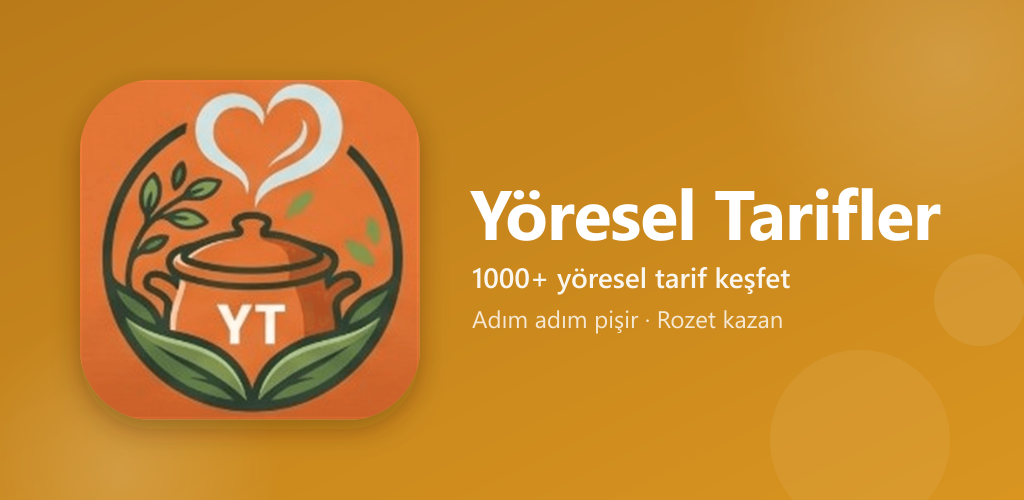
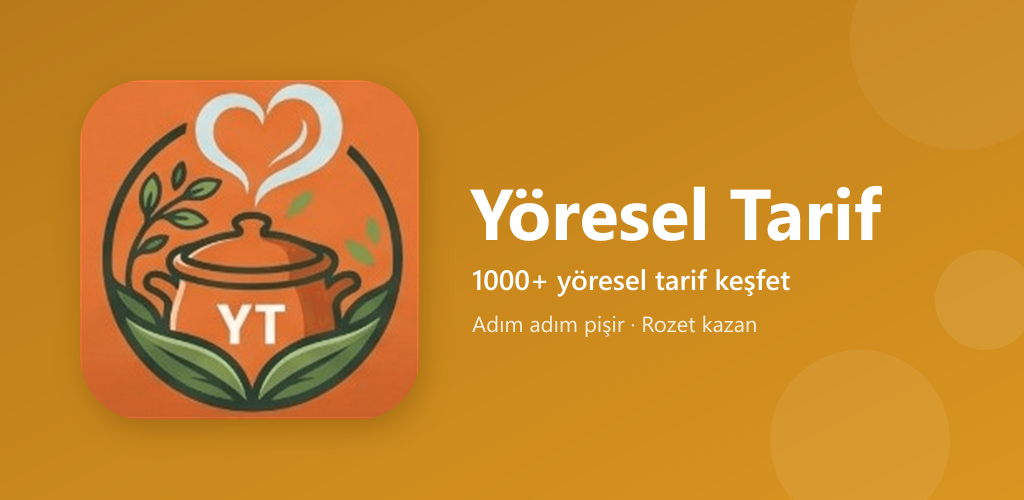
fix: Google/Apple ile girenler hesap silebilsin, pasaportta ulke bayraklari
- Hesap silmede sifre yerine giris yontemine gore yeniden dogrulama
  (Google / Apple), Apple token iptali (App Store 5.1.1(v))
- Pasaport damgalarinda kita simgesi yerine ulke bayragi
- Gunun Menusu metinlerinde Turkce karakterler
- Play magaza gorselleri (ad duzeltilmis feature graphic, 512 ikon,
  ekran goruntuleri)

diff --git a/src/screens/ProfileScreen.js b/src/screens/ProfileScreen.js
@@ -12,6 +12,7 @@ import {
 import { Image } from 'expo-image';
 import { Globe, Palette, Settings, LogOut, User as UserIcon, ChevronRight, Trash2, Shield, Camera, Crown } from 'lucide-react-native';
 import { useApp } from '../contexts/AppContext';
+import { getCountryFlag } from '../constants/countryFlags';
 import { useAuth } from '../contexts/AuthContext';
 import { useSubscription } from '../contexts/SubscriptionContext';
 import { getRank, getNextRank, RANKS } from '../constants/ranks';
@@ -52,7 +53,7 @@ const CONTINENT_EMOJIS = {
 
 function PassportStamp({ country, continent }) {
   const color = CONTINENT_COLORS[continent] || CONTINENT_COLORS.unknown;
-  const emoji = CONTINENT_EMOJIS[continent] || '🌐';
+  const emoji = getCountryFlag(country) || CONTINENT_EMOJIS[continent] || '🌐';
   return (
     <View style={[stampStyles.stamp, { borderColor: color }]}>
       <View style={[stampStyles.innerRing, { borderColor: color + '60' }]}>
@@ -100,7 +101,7 @@ const stampStyles = StyleSheet.create({
 
 export default function ProfileScreen({ navigation }) {
   const { colors, translate, theme, setTheme, showNotification, completedRecipesCount, completedCountries, language } = useApp();
-  const { user, isAdmin, isGuest, logout, deleteAccount } = useAuth();
+  const { user, isAdmin, isGuest, logout, deleteAccount, getDeleteAuthMethod } = useAuth();
   const { isPremium } = useSubscription();
   const [showThemeModal, setShowThemeModal] = useState(false);
   const [showDeleteModal, setShowDeleteModal] = useState(false);
@@ -123,15 +124,20 @@ export default function ProfileScreen({ navigation }) {
     }
   };
 
+  // Google/Apple ile giriş yapanların şifresi yok -- onlar şifre yerine
+  // aynı sağlayıcıyla yeniden giriş yaparak onaylar.
+  const deleteAuthMethod = showDeleteModal ? getDeleteAuthMethod() : 'password';
+  const needsPassword = deleteAuthMethod === 'password';
+
   const handleDeleteAccount = async () => {
-    if (!deletePassword) return;
+    if (needsPassword && !deletePassword) return;
     setDeleteLoading(true);
     const result = await deleteAccount(deletePassword);
     setDeleteLoading(false);
     if (result.success) {
       showNotification(translate('deleteAccountSuccess'));
       setShowDeleteModal(false);
-    } else {
+    } else if (result.error) {
       showNotification(translate(result.error));
     }
   };
@@ -580,16 +586,22 @@ export default function ProfileScreen({ navigation }) {
             <Text style={[styles.deleteWarningText, { color: colors.textSecondary }]}>
               {translate('deleteAccountWarning')}
             </Text>
-            <TextInput
-              style={[styles.deletePasswordInput, { backgroundColor: colors.background, color: colors.text, borderColor: colors.border }]}
-              placeholder={translate('enterPasswordToConfirm')}
-              placeholderTextColor={colors.textTertiary}
-              value={deletePassword}
-              onChangeText={setDeletePassword}
-              secureTextEntry
-              autoCorrect={false}
-              spellCheck={false}
-            />
+            {needsPassword ? (
+              <TextInput
+                style={[styles.deletePasswordInput, { backgroundColor: colors.background, color: colors.text, borderColor: colors.border }]}
+                placeholder={translate('enterPasswordToConfirm')}
+                placeholderTextColor={colors.textTertiary}
+                value={deletePassword}
+                onChangeText={setDeletePassword}
+                secureTextEntry
+                autoCorrect={false}
+                spellCheck={false}
+              />
+            ) : (
+              <Text style={[styles.deleteWarningText, { color: colors.textSecondary }]}>
+                {translate(deleteAuthMethod === 'google' ? 'deleteAccountReauthGoogle' : 'deleteAccountReauthApple')}
+              </Text>
+            )}
             <View style={styles.deleteModalButtons}>
               <TouchableOpacity
                 style={[styles.deleteModalBtn, { backgroundColor: colors.border }]}
@@ -603,9 +615,9 @@ export default function ProfileScreen({ navigation }) {
                 </Text>
               </TouchableOpacity>
               <TouchableOpacity
-                style={[styles.deleteModalBtn, { backgroundColor: colors.error }, (!deletePassword || deleteLoading) && { opacity: 0.5 }]}
+                style={[styles.deleteModalBtn, { backgroundColor: colors.error }, ((needsPassword && !deletePassword) || deleteLoading) && { opacity: 0.5 }]}
                 onPress={handleDeleteAccount}
-                disabled={!deletePassword || deleteLoading}
+                disabled={(needsPassword && !deletePassword) || deleteLoading}
                 accessibilityRole="button"
                 accessibilityLabel={translate('confirm')}
               >

diff --git a/src/contexts/AuthContext.js b/src/contexts/AuthContext.js
@@ -12,6 +12,7 @@ import {
   reauthenticateWithCredential,
   EmailAuthProvider,
   sendPasswordResetEmail,
+  revokeAccessToken,
 } from 'firebase/auth';
 import { doc, getDoc, setDoc, deleteDoc, collection, query, where, getDocs, writeBatch } from 'firebase/firestore';
 import { auth, db } from '../config/firebase';
@@ -204,14 +205,52 @@ export const AuthProvider = ({ children }) => {
     }
   };
 
+  // Hesap silmeden önce kimlik doğrulamanın hangi yolla yapılacağı: şifreli
+  // hesaplar şifre sorar, Google/Apple ile girenlerin şifresi olmadığı için
+  // aynı sağlayıcıyla yeniden giriş istenir.
+  const getDeleteAuthMethod = () => {
+    const providers = (auth.currentUser?.providerData || []).map(p => p.providerId);
+    if (providers.includes('password')) return 'password';
+    if (providers.includes('google.com')) return 'google';
+    if (providers.includes('apple.com')) return 'apple';
+    return 'password';
+  };
+
+  const reauthenticateForDelete = async (currentUser, password) => {
+    const method = getDeleteAuthMethod();
+    if (method === 'google') {
+      const idToken = await signInWithGoogle();
+      if (!idToken) return { cancelled: true };
+      await reauthenticateWithCredential(currentUser, GoogleAuthProvider.credential(idToken));
+      return {};
+    }
+    if (method === 'apple') {
+      // Apple ile giriş yalnızca iOS'ta var -- Android'deki Apple
+      // kullanıcısı e-postayla silme talebine yönlendirilir.
+      if (!(await isAppleSignInAvailable())) return { error: 'deleteAccountAppleUnavailable' };
+      const appleResult = await signInWithApple();
+      if (!appleResult) return { cancelled: true };
+      const credential = new OAuthProvider('apple.com').credential({
+        idToken: appleResult.identityToken,
+        rawNonce: appleResult.rawNonce,
+      });
+      await reauthenticateWithCredential(currentUser, credential);
+      return { appleAuthorizationCode: appleResult.authorizationCode };
+    }
+    const credential = EmailAuthProvider.credential(currentUser.email, password);
+    await reauthenticateWithCredential(currentUser, credential);
+    return {};
+  };
+
   const deleteAccount = async (password) => {
     try {
       const currentUser = auth.currentUser;
       if (!currentUser) return { success: false, error: 'No user' };
 
       // Firebase requires recent authentication before deletion
-      const credential = EmailAuthProvider.credential(currentUser.email, password);
-      await reauthenticateWithCredential(currentUser, credential);
+      const reauth = await reauthenticateForDelete(currentUser, password);
+      if (reauth.cancelled) return { success: false, error: null };
+      if (reauth.error) return { success: false, error: reauth.error };
 
       const uid = currentUser.uid;
       const avatarUrl = currentUser.photoURL;
@@ -241,6 +280,15 @@ export const AuthProvider = ({ children }) => {
       // kapsıyor (bkz. mağaza inceleme denetimi 2026-08-09).
       await Promise.all([avatarUrl, ...recipePhotoUrls].map(deleteImageByUrl));
 
+      // Apple ile giriş yapan hesaplarda uygulamanın Apple token'ı iptal
+      // edilmeli (App Store kuralı 5.1.1(v)). Başarısız olursa silmeyi
+      // engellememeli -- veriler zaten silindi.
+      if (reauth.appleAuthorizationCode) {
+        try {
+          await revokeAccessToken(auth, reauth.appleAuthorizationCode);
+        } catch {}
+      }
+
       // Delete Firebase Auth user last
       await deleteUser(currentUser);
 
@@ -248,6 +296,9 @@ export const AuthProvider = ({ children }) => {
     } catch (error) {
       if (error.code === 'auth/wrong-password' || error.code === 'auth/invalid-credential') {
         return { success: false, error: 'wrongPasswordDelete' };
+      }
+      if (error.code === 'auth/user-mismatch') {
+        return { success: false, error: 'deleteAccountWrongAccount' };
       }
       return { success: false, error: 'deleteAccountError' };
     }
@@ -284,6 +335,7 @@ export const AuthProvider = ({ children }) => {
     logout,
     resetPassword,
     deleteAccount,
+    getDeleteAuthMethod,
     continueAsGuest,
   };
 

diff --git a/src/constants/countryFlags.js b/src/constants/countryFlags.js
@@ -1,0 +1,132 @@
+// Tariflerdeki Türkçe ülke adı → ISO 3166-1 alpha-2 kodu. Pasaport
+// damgalarında kıta simgesi yerine ülkenin kendi bayrağını göstermek için
+// kullanılır (ör. Türkiye tarifleri "europe" kıtasında olduğu için eskiden
+// AB bayrağıyla görünüyordu).
+const COUNTRY_CODES = {
+  'ABD': 'US',
+  'Afganistan': 'AF',
+  'Almanya': 'DE',
+  'Angola': 'AO',
+  'Arjantin': 'AR',
+  'Avustralya': 'AU',
+  'Avusturya': 'AT',
+  'Azerbaycan': 'AZ',
+  'Bangladeş': 'BD',
+  'Belçika': 'BE',
+  'Bosna-Hersek': 'BA',
+  'Botsvana': 'BW',
+  'Brezilya': 'BR',
+  'Bulgaristan': 'BG',
+  'Butan': 'BT',
+  'Cezayir': 'DZ',
+  'Çek Cumhuriyeti': 'CZ',
+  'Çin': 'CN',
+  'Danimarka': 'DK',
+  'Ekvador': 'EC',
+  'El Salvador': 'SV',
+  'Endonezya': 'ID',
+  'Eritre': 'ER',
+  'Ermenistan': 'AM',
+  'Etiyopya': 'ET',
+  'Fas': 'MA',
+  'Fiji': 'FJ',
+  'Fildişi Sahili': 'CI',
+  'Filipinler': 'PH',
+  'Fransa': 'FR',
+  'Fransız Polinezyası': 'PF',
+  'Gana': 'GH',
+  'Guatemala': 'GT',
+  'Gürcistan': 'GE',
+  'Güney Afrika': 'ZA',
+  'Güney Kore': 'KR',
+  'Hindistan': 'IN',
+  'Hollanda': 'NL',
+  'Hawaii (ABD)': 'US',
+  'İngiltere': 'GB',
+  'İran': 'IR',
+  'İrlanda': 'IE',
+  'İskoçya': 'GB',
+  'İspanya': 'ES',
+  'İsrail': 'IL',
+  'İsveç': 'SE',
+  'İsviçre': 'CH',
+  'İtalya': 'IT',
+  'Japonya': 'JP',
+  'Kamboçya': 'KH',
+  'Kamerun': 'CM',
+  'Kanada': 'CA',
+  'Kazakistan': 'KZ',
+  'Kenya': 'KE',
+  'Kırgızistan': 'KG',
+  'Kolombiya': 'CO',
+  'Kongo': 'CG',
+  'Kore': 'KR',
+  'Kosta Rika': 'CR',
+  'Küba': 'CU',
+  'Laos': 'LA',
+  'Liberya': 'LR',
+  'Libya': 'LY',
+  'Lübnan': 'LB',
+  'Macaristan': 'HU',
+  'Madagaskar': 'MG',
+  'Maldivler': 'MV',
+  'Malezya': 'MY',
+  'Mali': 'ML',
+  'Mauritius': 'MU',
+  'Meksika': 'MX',
+  'Mısır': 'EG',
+  'Moğolistan': 'MN',
+  'Mozambik': 'MZ',
+  'Myanmar': 'MM',
+  'Nepal': 'NP',
+  'Nijerya': 'NG',
+  'Nikaragua': 'NI',
+  'Özbekistan': 'UZ',
+  'Pakistan': 'PK',
+  'Panama': 'PA',
+  'Papua Yeni Gine': 'PG',
+  'Paraguay': 'PY',
+  'Peru': 'PE',
+  'Polonya': 'PL',
+  'Portekiz': 'PT',
+  'Romanya': 'RO',
+  'Ruanda': 'RW',
+  'Rusya': 'RU',
+  'Samoa': 'WS',
+  'Senegal': 'SN',
+  'Singapur': 'SG',
+  'Sırbistan': 'RS',
+  'Somali': 'SO',
+  'Sri Lanka': 'LK',
+  'Sudan': 'SD',
+  'Suriye': 'SY',
+  'Şili': 'CL',
+  'Tanzanya': 'TZ',
+  'Tayland': 'TH',
+  'Tayvan': 'TW',
+  'Tunus': 'TN',
+  'Türkiye': 'TR',
+  'Uganda': 'UG',
+  'Ukrayna': 'UA',
+  'Ürdün': 'JO',
+  'Venezuela': 'VE',
+  'Vietnam': 'VN',
+  'Yemen': 'YE',
+  'Yeni Kaledonya': 'NC',
+  'Yeni Zelanda': 'NZ',
+  'Yunanistan': 'GR',
+  'Zambiya': 'ZM',
+  'Zimbabwe': 'ZW',
+};
+
+const codeToFlag = (code) =>
+  String.fromCodePoint(...[...code].map(c => 0x1f1e6 + c.charCodeAt(0) - 65));
+
+// "Lübnan / Filistin" gibi birden fazla ülkeli adlarda ilk ülkenin bayrağı
+// kullanılır. Bilinmeyen ülke (ör. kullanıcının gönderdiği tarif) için null
+// döner -- çağıran taraf kıta simgesine düşer.
+export function getCountryFlag(country) {
+  if (!country) return null;
+  const code = COUNTRY_CODES[country] || COUNTRY_CODES[country.split('/')[0].trim()];
+  return code ? codeToFlag(code) : null;
+}

diff --git a/src/constants/translations.js b/src/constants/translations.js
@@ -1535,6 +1535,30 @@ export const TRANSLATIONS = {
     fr: 'Mot de passe incorrect, le compte n\'a pas pu être supprimé',
     it: 'Password errata, l\'account non può essere eliminato',
   },
+  deleteAccountReauthGoogle: {
+    tr: 'Onaylamak için Google hesabınızla tekrar giriş yapmanız istenecek.',
+    en: 'You will be asked to sign in with your Google account again to confirm.',
+    fr: 'Il vous sera demandé de vous reconnecter avec votre compte Google pour confirmer.',
+    it: 'Ti verrà chiesto di accedere di nuovo con il tuo account Google per confermare.',
+  },
+  deleteAccountReauthApple: {
+    tr: 'Onaylamak için Apple ile tekrar giriş yapmanız istenecek.',
+    en: 'You will be asked to sign in with Apple again to confirm.',
+    fr: 'Il vous sera demandé de vous reconnecter avec Apple pour confirmer.',
+    it: 'Ti verrà chiesto di accedere di nuovo con Apple per confermare.',
+  },
+  deleteAccountWrongAccount: {
+    tr: 'Farklı bir hesapla giriş yapıldı, hesap silinemedi',
+    en: 'You signed in with a different account, account could not be deleted',
+    fr: "Vous vous êtes connecté avec un autre compte, le compte n'a pas pu être supprimé",
+    it: "Hai effettuato l'accesso con un account diverso, l'account non può essere eliminato",
+  },
+  deleteAccountAppleUnavailable: {
+    tr: "Apple hesabınızı bu cihazda doğrulayamıyoruz. Lütfen bir iPhone'dan silin veya info@yoreseltarif.com adresine yazın.",
+    en: "We can't verify your Apple account on this device. Please delete it from an iPhone or email info@yoreseltarif.com.",
+    fr: 'Impossible de vérifier votre compte Apple sur cet appareil. Supprimez-le depuis un iPhone ou écrivez à info@yoreseltarif.com.',
+    it: 'Non possiamo verificare il tuo account Apple su questo dispositivo. Eliminalo da un iPhone o scrivi a info@yoreseltarif.com.',
+  },
   privacyPolicy: {
     tr: 'Gizlilik Politikası',
     en: 'Privacy Policy',
@@ -1831,19 +1855,19 @@ export const TRANSLATIONS = {
 
   // Daily Menu
   dailyMenu: {
-    tr: "Gunun Menusu",
+    tr: "Günün Menüsü",
     en: "Today's Menu",
     fr: "Menu du Jour",
     it: "Menu del Giorno",
   },
   dailyMenuEmpty: {
-    tr: 'Admin henuz gunun menusu olusturmadi.',
+    tr: 'Admin henüz günün menüsünü oluşturmadı.',
     en: 'Admin has not set today\'s menu yet.',
     fr: 'L\'admin n\'a pas encore defini le menu du jour.',
     it: 'L\'admin non ha ancora impostato il menu del giorno.',
   },
   manageDailyMenu: {
-    tr: 'Gunun Menusu Yonet',
+    tr: 'Günün Menüsünü Yönet',
     en: 'Manage Daily Menu',
     fr: 'Gerer le Menu du Jour',
     it: 'Gestisci Menu del Giorno',

diff --git a/src/services/appleAuthService.js b/src/services/appleAuthService.js
@@ -41,6 +41,9 @@ export async function signInWithApple() {
       identityToken: credential.identityToken,
       rawNonce,
       fullName: credential.fullName,
+      // Hesap silmede Apple token'ını iptal etmek (revokeAccessToken) için
+      // gerekli -- App Store kuralı 5.1.1(v).
+      authorizationCode: credential.authorizationCode,
     };
   } catch (error) {
     if (error.code === 'ERR_REQUEST_CANCELED') return null;
